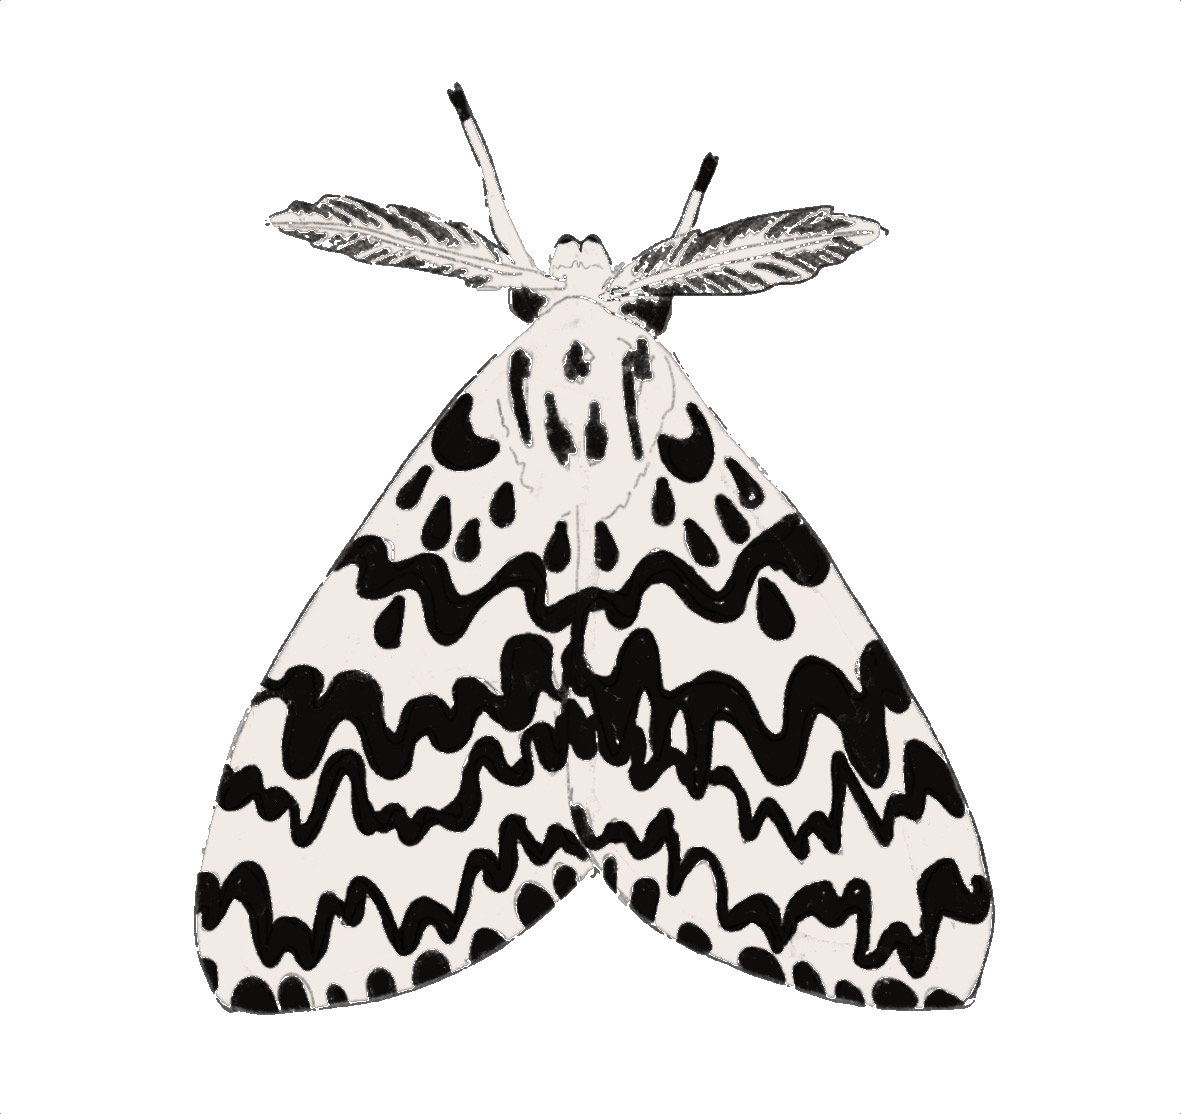
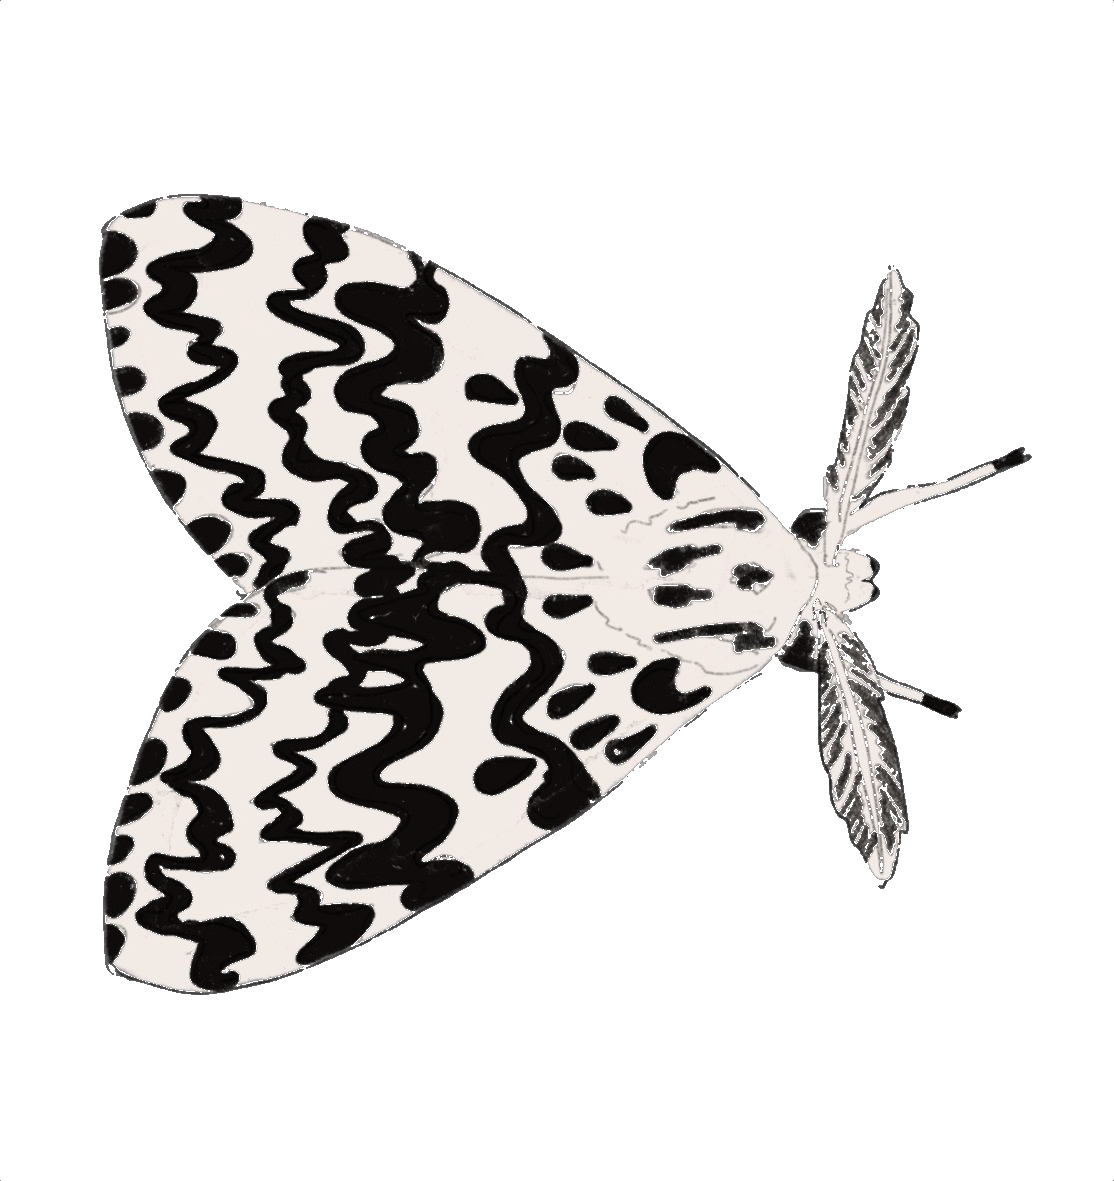
placed all the insects

diff --git a/final project/js/script.js b/final project/js/script.js
@@ -36,16 +36,31 @@ function setup() {
 function draw() {
     background("#cccccc");
 
-    image(bug[currentImage], 50, 50, 500, 500);
-    image(bug[1], 50, 50, 500, 500);
-    image(bug[2], 50, 50, 500, 500);
-    image(bug[3], 50, 50, 500, 500);
-    image(bug[4], 50, 50, 500, 500);
-    image(bug[5], 50, 50, 500, 500);
-    image(bug[6], 50, 50, 500, 500);
-    image(bug[7], 50, 50, 500, 500);
-    image(bug[8], 50, 50, 500, 500);
-    image(bug[9], 50, 50, 500, 500);
-    image(bug[10], 50, 50, 500, 500);
+    // bee
+    image(bug[currentImage], 800, 150, 150, 150);
+
+    // firefly
+    image(bug[1], 720, 150, 200, 200);
+
+    // moth
+    image(bug[2], 10, 0, 250, 250);
+
+    // sloth moth (still)
+    image(bug[3], -20, 550, 300, 300);
+    image(bug[10], -20, 540, 300, 300);
+
+    // bettle (purple)
+    image(bug[4], 650, 500, 350, 300);
+    image(bug[5], 650, 496, 350, 300);
+
+    // dung bettle (blue)
+    image(bug[6], 700, 10, 300, 200);
+    image(bug[7], 690, 5, 300, 200);
+
+    // isopod
+    image(bug[8], 300, 300, 300, 200);
+    image(bug[9], 340, 285, 200, 200);
+
+
 
 }
